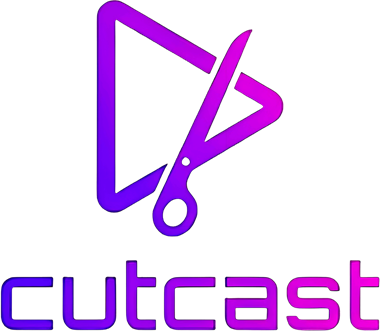
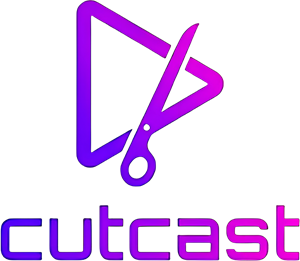
tweak: watermark 300px, 400px below center after visual review

diff --git a/index.ts b/index.ts
@@ -31,7 +31,7 @@ const __dirname = path.dirname(__filename);
 
 // --- WATERMARK ---
 const WATERMARK_OPACITY = 0.4;
-const WATERMARK_Y_OFFSET = 200; // px abaixo do centro (frame 1080x1920)
+const WATERMARK_Y_OFFSET = 400; // px abaixo do centro (frame 1080x1920)
 
 // Em dev (tsx) __dirname é a raiz do projeto; em prod (dist/) é um nível abaixo
 function resolveWatermarkPath(): string | undefined {